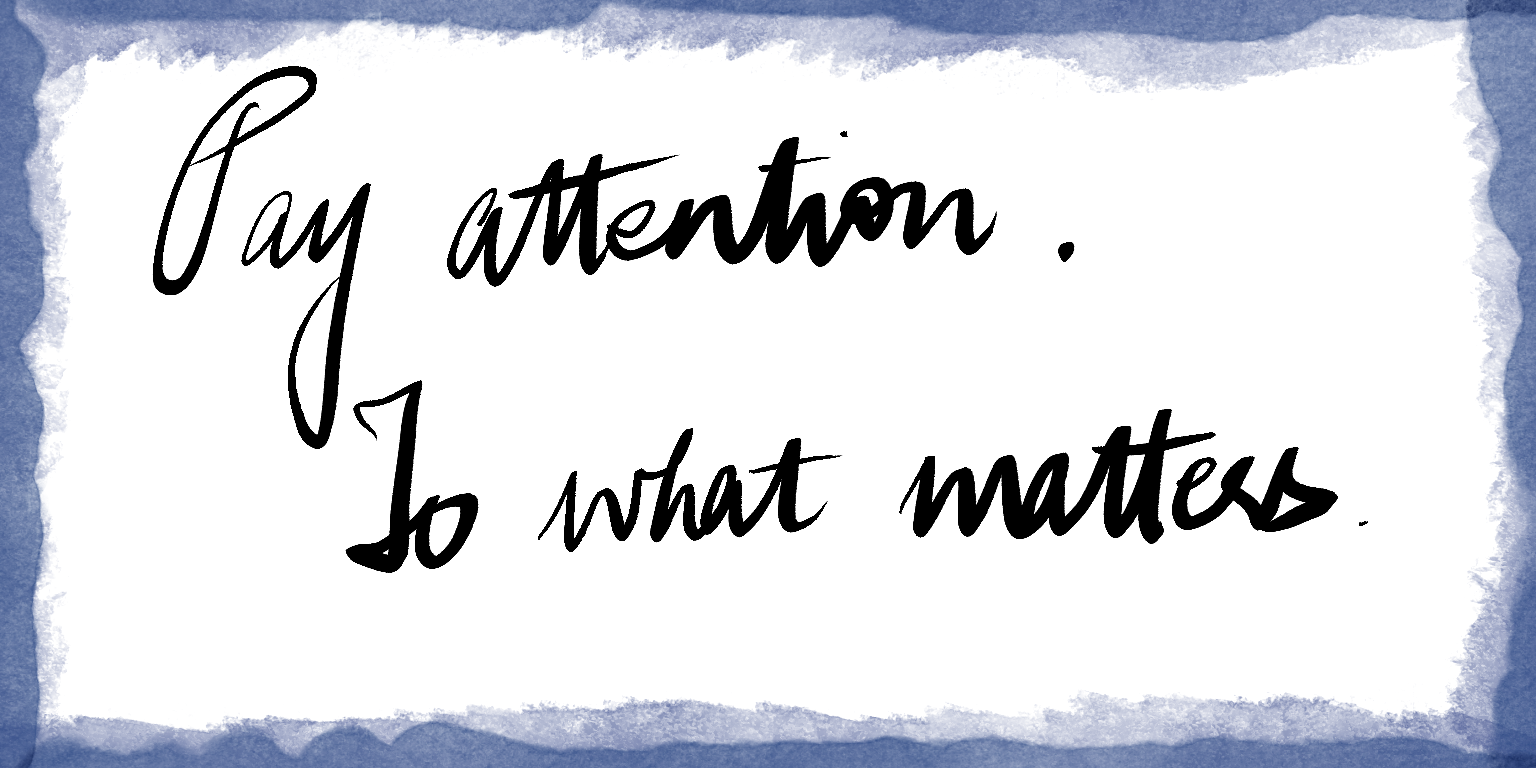
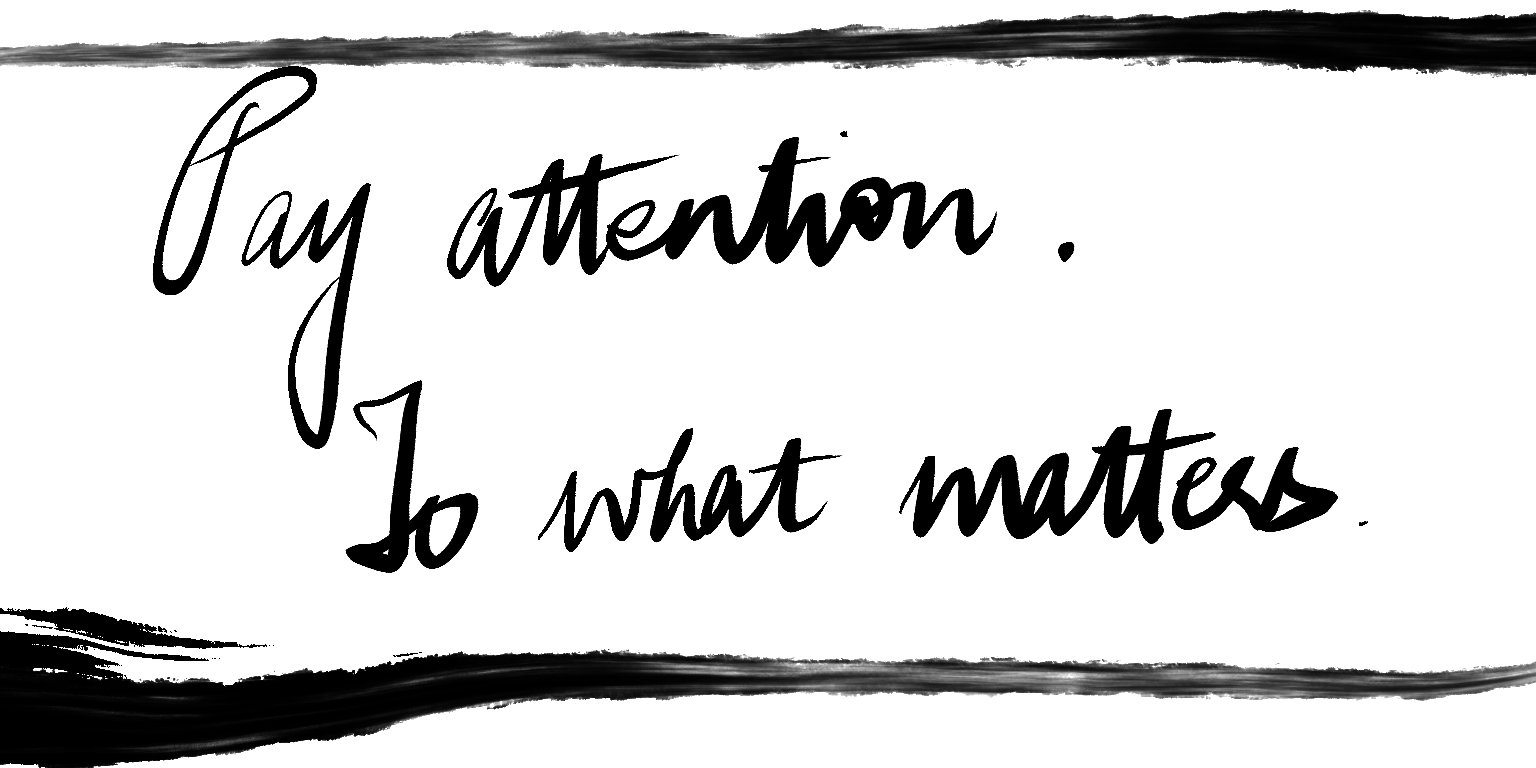
feat: better design of landing page

Changed region(s): [[0.0, 0.0, 1.0, 1.0]]

diff --git a/index.html b/index.html
@@ -2,19 +2,44 @@
 layout: default
 title: Home
 permalink: /
+
+data:
+    writings:
+        - label: Weblog
+          url: /weblog/
+        - label: Notebook
+          url: /writings/
+    projects:
+        - label: deno-tui
+          url: "#"
+        - label: programs.rs
+          url: "#"
+        - label: dit
+          url: "#"
+    contact:
+        - label: GitHub
+          url: https://github.com/yatharthx
+          external: true
+        - label: Twitter
+          url: https://twitter.com/yatharthx_
+          external: true
+        - label: Email
+          url: mailto:yatharth@hey.com
 ---
 
 <div class="max-w-3xl mx-auto pt-8">
-    <div class="grid grid-cols-1 gap-4 md:grid-cols-2 font-mono text-sm">
+    <div
+        class="flex flex-col justify-center md:grid gap-8 md:gap-4 md:grid-cols-2 font-mono text-sm"
+    >
         {%- include components/homepage/canvas.html -%}
         <!---->
         {%- include components/homepage/about.html -%}
         <!---->
         {%- include components/homepage/writings.html -%}
         <!---->
-        {%- include components/homepage/pay_attention_illustration.html -%}
-        <!---->
         {%- include components/homepage/projects.html -%}
+        <!---->
+        {%- include components/homepage/pay_attention_illustration.html -%}
         <!---->
         {%- include components/homepage/contact.html -%}
     </div>

diff --git a/_includes/components/homepage/contact.html b/_includes/components/homepage/contact.html
@@ -1,28 +1,10 @@
 <div class="p-2">
-    <p class="text-muted-foreground mb-2">Connect</p>
+    <p class="text-muted-foreground mb-2 text-xs uppercase">Connect</p>
+    <p class="leading-6 my-4">
+        Would love to hear from you. The best way I'd say would be to shoot me
+        an email.
+    </p>
     <ul class="space-y-1">
-        <li>
-            <a
-                href="https://github.com/yatharthx"
-                class="text-foreground hover:text-primary no-underline"
-                target="_blank"
-                >GitHub</a
-            >
-        </li>
-        <li>
-            <a
-                href="https://twitter.com/yatharthx_"
-                class="text-foreground hover:text-primary no-underline"
-                target="_blank"
-                >Twitter</a
-            >
-        </li>
-        <li>
-            <a
-                href="mailto:yatharth@hey.com"
-                class="text-foreground hover:text-primary no-underline"
-                >Email</a
-            >
-        </li>
+        {%- include components/link-list.html links=page.data.contact -%}
     </ul>
 </div>

diff --git a/_includes/components/homepage/projects.html b/_includes/components/homepage/projects.html
@@ -1,20 +1,8 @@
 <div class="p-2">
-    <p class="text-muted-foreground mb-2">Things I'm working on rn</p>
+    <p class="text-muted-foreground mb-2 text-xs uppercase">
+        Things I'm working on rn
+    </p>
     <ul class="space-y-1">
-        <li>
-            <a href="#" class="text-foreground hover:text-primary no-underline"
-                >deno-tui</a
-            >
-        </li>
-        <li>
-            <a href="#" class="text-foreground hover:text-primary no-underline"
-                >programs.rs</a
-            >
-        </li>
-        <li>
-            <a href="#" class="text-foreground hover:text-primary no-underline"
-                >dit</a
-            >
-        </li>
+        {%- include components/link-list.html links=page.data.projects -%}
     </ul>
 </div>

diff --git a/_includes/components/homepage/writings.html b/_includes/components/homepage/writings.html
@@ -1,19 +1,6 @@
 <div class="p-2">
-    <p class="text-muted-foreground mb-2">Writings</p>
+    <p class="text-muted-foreground mb-2 text-xs uppercase">Writings</p>
     <ul class="space-y-1">
-        <li>
-            <a
-                href="/weblog/"
-                class="text-foreground hover:text-primary no-underline"
-                >Weblog</a
-            >
-        </li>
-        <li>
-            <a
-                href="/writings/"
-                class="text-foreground hover:text-primary no-underline"
-                >Notebook</a
-            >
-        </li>
+        {%- include components/link-list.html links=page.data.writings -%}
     </ul>
 </div>

diff --git a/_includes/components/link-list.html b/_includes/components/link-list.html
@@ -1,0 +1,18 @@
+{% for link in include.links %}
+<li>
+    <a
+        href="{{ link.url }}"
+        class="text-muted-foreground underline underline-offset-2 hover:underline hover:underline-offset-4 duration-100"
+        {%
+        if
+        link.external
+        %}
+        target="_blank"
+        rel="noopener noreferrer"
+        {%
+        endif
+        %}
+        >{{ link.label }}</a
+    >
+</li>
+{% endfor %}

diff --git a/_includes/components/homepage/pay_attention_illustration.html b/_includes/components/homepage/pay_attention_illustration.html
@@ -1,9 +1,7 @@
-<div
-    class="border-y md:border-l border-gray-600 hover:border-cyan-600 transition-all duration-200"
->
+<div class="col-span-2 my-9">
     <img
         src="/assets/img/pay_attention.png"
-        class="aspect-auto w-full"
+        class="aspect-auto w-lg mx-auto"
         loading="eager"
         alt='"Pay attention. To what matters."'
     />

diff --git a/_includes/components/homepage/canvas.html b/_includes/components/homepage/canvas.html
@@ -1,5 +1,8 @@
-<div class="block h-80 p-2">
-    <canvas id="c" style="display: block; width: 100%; height: 100%"></canvas>
+<div class="self-center h-80 min-w-80 md:p-2">
+    <canvas
+        id="c"
+        style="margin-inline: auto; display: block; width: 100%; height: 100%"
+    ></canvas>
 </div>
 
 <script>

diff --git a/_includes/components/homepage/about.html b/_includes/components/homepage/about.html
@@ -1,5 +1,5 @@
 <div class="p-2">
-    <p class="text-muted-foreground mb-3">About</p>
+    <p class="text-muted-foreground mb-3 text-xs uppercase">About</p>
     <p class="text-foreground leading-5 mb-2">
         A general purpose programmer who's building things with code.
     </p>
